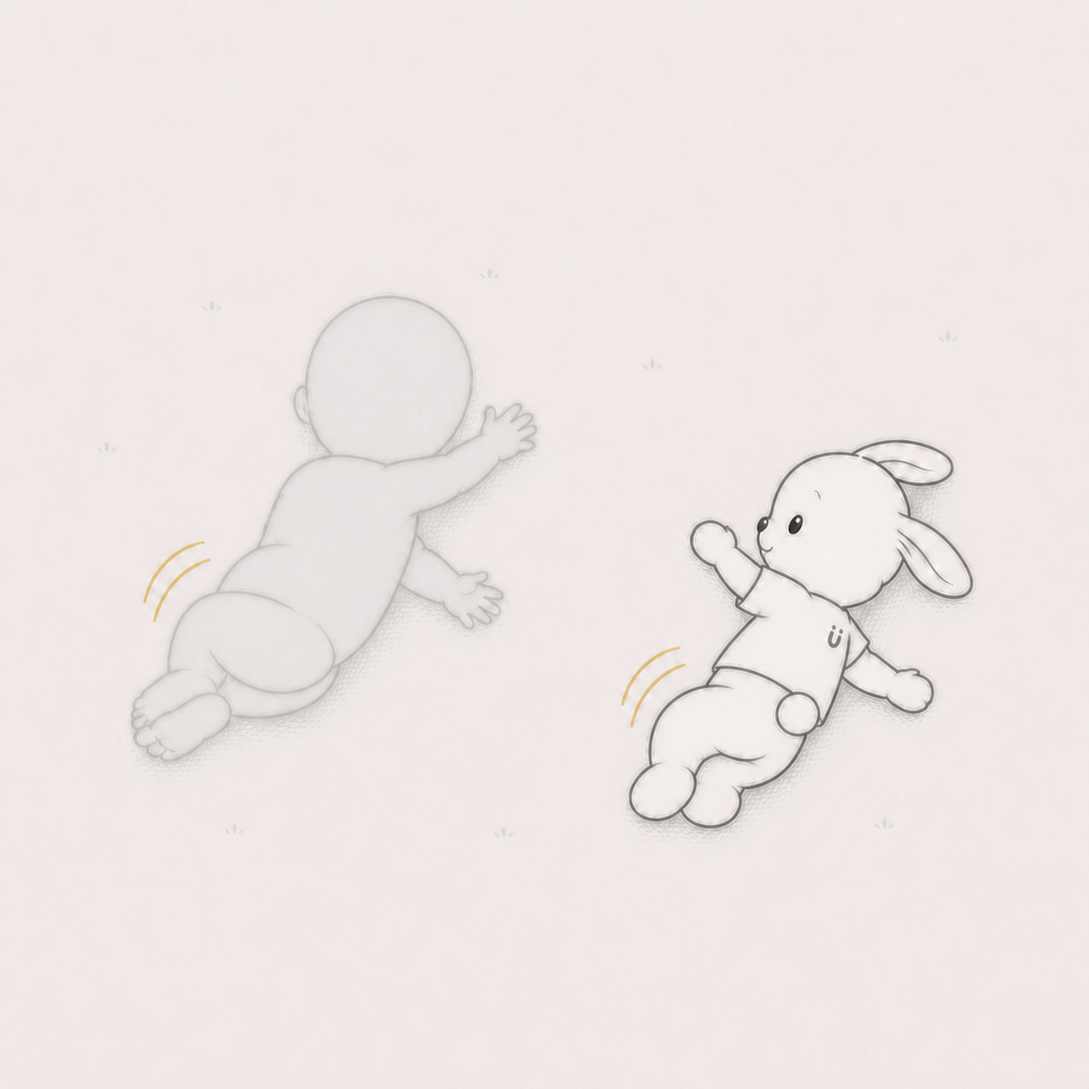
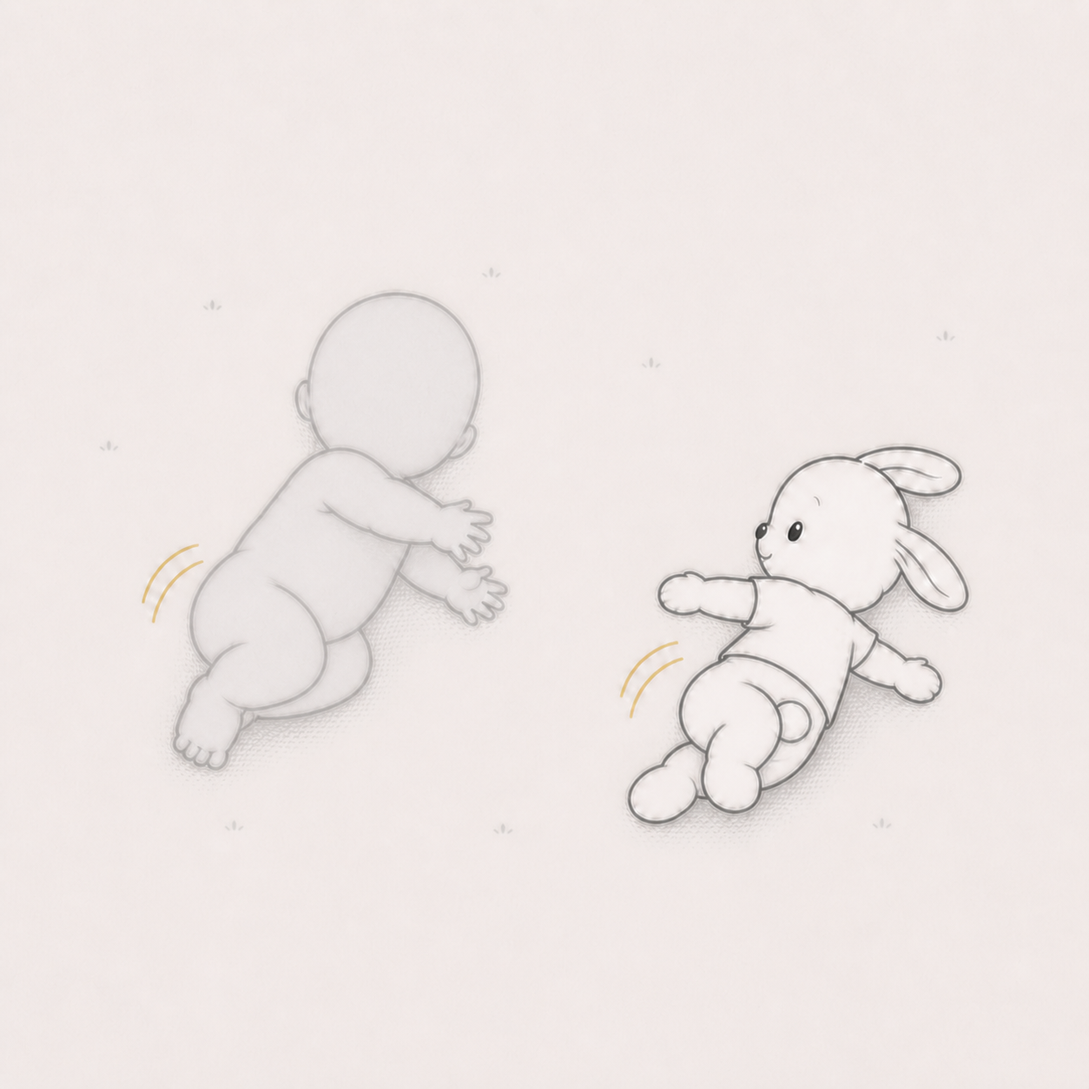
押しぐるま、三輪車などを追加

diff --git a/planning/participatory-growth-frames/index.html b/planning/participatory-growth-frames/index.html
@@ -165,6 +165,10 @@
         <article><button class="visual"><img src="../participatory-growth-frame-studies/gen-frame-relax-looking-up.png" alt="仰向けで並んでくつろぐ子どもとゲン"></button><div class="content"><span class="kind">REST</span><h3>並んで空を見る</h3><p class="scene">何かを頑張る時間ではなく、同じ場所で一緒に休む時間を残します。</p><p class="development"><strong>軽く見る発達</strong>仰向けで身体を休める／視線を上へ向ける／安心して静かに過ごす</p><p class="pose"><strong>写真の姿勢：</strong>仰向け。手足の位置は自由</p></div></article>
         <article><button class="visual"><img src="../participatory-growth-frame-studies/gen-frame-supine-feet-mirror.png" alt="仰向けで自分の足をつかむ子どもの隣で同じ形をまねるゲン"></button><div class="content"><span class="role role-milestone">MILESTONE</span><span class="kind">BODY DISCOVERY</span><h3>あし、みつけた</h3><p class="scene">子どもが仰向けで両足を手に取ると、隣のゲンも膝を胸へ寄せ、自分の足をつかんで同じ形を返します。</p><p class="development"><strong>この姿勢・動作で見えること</strong>股関節と膝を曲げる／手で自分の足をつかむ／身体の中央で手足を出会わせる</p><p class="pose"><strong>写真の姿勢：</strong>仰向けで両膝を胸へ寄せ、左右の手でそれぞれの足を持つ。大人は撮影側</p></div></article>
         <article><button class="visual"><img src="../participatory-growth-frame-studies/gen-frame-rolling-mirror.png" alt="横向きへ寝返ろうとする子どもの身体を隣でまねるゲン"></button><div class="content"><span class="role role-milestone">MILESTONE</span><span class="kind">ROLL &amp; IMITATE</span><h3>ころん、をいっしょに</h3><p class="scene">子どもが膝と腕を向こう側へ運び、身体を横へ向け始めると、ゲンも隣で同じ丸い形を返します。</p><p class="development"><strong>この姿勢・動作で見えること</strong>脚を身体の反対側へ動かす／肩と腰の向きを変える／仰向けから横向きへ移る</p><p class="pose"><strong>写真の姿勢：</strong>仰向けから横向きになる途中。片膝と片腕を身体の反対側へ。大人は撮影側</p></div></article>
+        <article><button class="visual"><img src="../participatory-growth-frame-studies/gen-frame-supported-twist.png" alt="台へ片手を残して身体を横へひねる子どもをまねるゲン"></button><div class="content"><span class="role role-milestone">MILESTONE</span><span class="kind">STAND &amp; TWIST</span><h3>つかまったまま、くるり</h3><p class="scene">子どもが片手を台へ残したまま胸と顔を横へ向けると、ゲンも隣で同じひねりを返します。</p><p class="development"><strong>この姿勢・動作で見えること</strong>片手で身体を支える／両足で立位を保つ／腰と肩を違う向きへ動かす</p><p class="pose"><strong>写真の姿勢：</strong>低い台へ片手を置き、足と腰を残したまま胸・顔・反対の腕を横へ。大人は撮影側</p></div></article>
+        <article><button class="visual"><img src="../participatory-growth-frame-studies/gen-frame-push-car.png" alt="四輪の手押し車を押して歩く子どもの前を進むゲン"></button><div class="content"><span class="role role-milestone">MILESTONE</span><span class="kind">PUSH &amp; WALK</span><h3>押す道の、少し前</h3><p class="scene">子どもが両手で車の取っ手を押して一歩進むと、ゲンは触れずに少し先から同じ道を示します。</p><p class="development"><strong>この姿勢・動作で見えること</strong>両手で支持物を押す／身体を少し前へ傾ける／足を交互に出して進む</p><p class="pose"><strong>写真の姿勢：</strong>安定した四輪手押し車の取っ手を両手で持ち、片足を前へ。大人はすぐ支えられる撮影位置</p></div></article>
+        <article><button class="visual"><img src="../participatory-growth-frame-studies/gen-frame-tricycle.png" alt="三輪車をこぐ子どもの後ろを走るゲン"></button><div class="content"><span class="role role-milestone">MILESTONE</span><span class="kind">PEDAL &amp; STEER</span><h3>こぐ足の、そのあとを</h3><p class="scene">子どもがハンドルを握り、片足でペダルを押すと、ゲンは後ろから同じ行き先へ走ります。</p><p class="development"><strong>この姿勢・動作で見えること</strong>両手で進行方向を調整する／左右の足でペダルを踏む／座った姿勢で前へ進む</p><p class="pose"><strong>写真の姿勢：</strong>三輪車へ座り、両手をハンドルへ。片膝を上げ、反対の足でペダルを押す。安全な場所で大人が撮影</p></div></article>
+        <article><button class="visual"><img src="../participatory-growth-frame-studies/gen-frame-trampoline.png" alt="トランポリンで跳ぶ子どもの形を地面でまねるゲン"></button><div class="content"><span class="role role-milestone">MILESTONE</span><span class="kind">BOUNCE</span><h3>しずんで、ぽん</h3><p class="scene">子どもがトランポリンを両足で沈ませて浮くと、ゲンも安全な外側で小さく同じ形を返します。</p><p class="development"><strong>この姿勢・動作で見えること</strong>両膝を一緒に曲げ伸ばす／両足で面を押す／上下の動きに合わせて姿勢を保つ</p><p class="pose"><strong>写真の姿勢：</strong>低いトランポリンの中央で両足をそろえ、膝を曲げ、腕を横へ。大人は手の届く位置</p></div></article>
         <article><button class="visual"><img src="../participatory-growth-frame-studies/gen-frame-relax-leaning-together.png" alt="並んで座って寄りかかる子どもとゲン"></button><div class="content"><span class="kind">REST</span><h3>寄りかかって、ひと休み</h3><p class="scene">子どもが少し後ろへ寄りかかると、ゲンも同じ角度で隣へ座ります。</p><p class="development"><strong>軽く見る発達</strong>座る／手で身体を支える／自分に合う姿勢で休む</p><p class="pose"><strong>写真の姿勢：</strong>床座り・両手を後ろへ</p></div></article>
         <article><button class="visual"><img src="../participatory-growth-frame-studies/gen-frame-relax-watching-together.png" alt="うつ伏せで同じ小さな物を見る子どもとゲン"></button><div class="content"><span class="kind">CURIOSITY</span><h3>同じ小さなものを見る</h3><p class="scene">虫や葉っぱ、おもちゃなど、子どもの興味の先へゲンも並びます。</p><p class="development"><strong>軽く見る発達</strong>興味のある物を見続ける／同じ対象へ注意を向ける／楽な姿勢を選ぶ</p><p class="pose"><strong>写真の姿勢：</strong>うつ伏せ・頬や顎を手に置く</p></div></article>
         <article><button class="visual"><img src="../participatory-growth-frame-studies/gen-frame-follow-walking.png" alt="歩く子どもの後ろからついていくゲン"></button><div class="content"><span class="kind">FOLLOW</span><h3>歩く子どもの、二歩あと</h3><p class="scene">子どもが行き先を決め、ゲンは同じ方向へ後ろからついていきます。</p><p class="development"><strong>軽く見る発達</strong>前へ歩く／左右へ体重を移す／自分のペースで移動する</p><p class="pose"><strong>写真の姿勢：</strong>歩く後ろ姿。日常の写真をそのまま使える</p></div></article>
@@ -198,6 +202,7 @@
         <article><button class="visual"><img src="../participatory-growth-frame-studies/mimo-frame-bubble-play.png" alt="シャボン玉へ手を伸ばす子どもと同じ軌道を見るミモ"></button><div class="content"><span class="role role-together">TOGETHER</span><span class="kind">BUBBLES &amp; REACH</span><h3>ふわふわ、どこまで</h3><p class="scene">子どもの息から生まれた泡へ手が伸びると、ミモも少し離れた場所から同じ泡を見上げます。泡の軌道が二人の視線をつなぎます。</p><p class="development"><strong>二人の間で起きていること</strong>息を吹く／動く物を目で追う／手を伸ばす／同じ対象を一緒に見る</p><p class="pose"><strong>写真の姿勢：</strong>座る・膝立ちで吹き棒を口元へ。反対の手を泡へ伸ばす。大人は撮影側</p></div></article>
         <article><button class="visual"><img src="../participatory-growth-frame-studies/mimo-frame-voice-pingpong.png" alt="子どもの声へ小さな声を返すミモ"></button><div class="content"><span class="kind">VOICE</span><h3>声のピンポン</h3><p class="scene">子どもの口から届いた音へ、ミモが小さく音を返します。声の大小より往復を見ます。</p><p class="development"><strong>軽く見る発達</strong>声を出す／笑う／喃語や音をまねる／交互にやりとりする</p><p class="pose"><strong>写真の姿勢：</strong>横顔または斜め顔・口が開いた瞬間</p></div></article>
         <article><button class="visual"><img src="../participatory-growth-frame-studies/mimo-frame-wave-response.png" alt="手を振る子どもへ翼を上げて返すミモ"></button><div class="content"><span class="role role-together">TOGETHER</span><span class="kind">WAVE BACK</span><h3>ばいばい、かえってきた</h3><p class="scene">子どもが片手を振ると、ミモも向かい側で翼を上げます。画面の外の大人ではなく、ミモが挨拶の相手になります。</p><p class="development"><strong>二人の間で起きていること</strong>手のひらを相手へ向ける／身振りで挨拶する／返ってきた身振りを見る</p><p class="pose"><strong>写真の姿勢：</strong>立つ、または座って片手を顔の横へ。大人は撮影側</p></div></article>
+        <article><button class="visual"><img src="../participatory-growth-frame-studies/mimo-frame-peace-sign.png" alt="子どもの隣で同じカメラへ向かい両翼をV字に上げるミモ"></button><div class="content"><span class="role role-together">TOGETHER</span><span class="kind">PEACE TOGETHER</span><h3>ふたつの指、ふたつの羽</h3><p class="scene">子どもとミモがすぐ隣へ並び、同じカメラへ向かいます。子どもの二本指に合わせ、ミモは形を変えない両翼をV字に上げます。</p><p class="development"><strong>二人の間で起きていること</strong>人差し指と中指を分ける／相手の形を自分の身体で返す／並んで同じ相手へ身体を向ける</p><p class="pose"><strong>写真の姿勢：</strong>ミモの隣で正面を向き、片手を顔の横へ。人差し指と中指でVをつくる。大人は撮影側</p></div></article>
         <article><button class="visual"><img src="../participatory-growth-frame-studies/mimo-frame-imitation-arms-up.png" alt="両腕を上げる子どもの姿を翼で返すミモ"></button><div class="content"><span class="role role-together">TOGETHER</span><span class="kind">IMITATE</span><h3>そのかたち、かえすよ</h3><p class="scene">子どもが両腕を上げると、ミモも向かい側で翼を上げます。子どもの動きから、二人の形が始まります。</p><p class="development"><strong>二人の間で起きていること</strong>相手の動きを見る／身体の形をまねる／動きを交互に返す</p><p class="pose"><strong>写真の姿勢：</strong>立つ、または座って両腕を斜め上へ伸ばす</p></div></article>
         <article><button class="visual"><img src="../participatory-growth-frame-studies/mimo-frame-freeze-notice.png" alt="動きを止めた子どもと同じ形で止まるミモ"></button><div class="content"><span class="role role-together">TOGETHER</span><span class="kind">FREEZE &amp; NOTICE</span><h3>ぴたっ、をいっしょに</h3><p class="scene">動いていた子どもが合図に気づいて止まると、ミモも翼と片足をその場で止めます。正しい形より、気づいて切り替えた瞬間を残します。</p><p class="development"><strong>二人の間で起きていること</strong>合図へ注意を向ける／動いている身体を止める／相手と簡単なルールを共有する</p><p class="pose"><strong>写真の姿勢：</strong>立って片膝を上げ、両腕を動きの途中で止める。大人は撮影側</p></div></article>
         <article><button class="visual"><img src="../participatory-growth-frame-studies/mimo-frame-hidden-find.png" alt="子どもが布を持ち上げて隠れていたミモを見つける"></button><div class="content"><span class="role role-milestone">MILESTONE</span><span class="kind">FIND</span><h3>めくった先に、いた</h3><p class="scene">子どもが布の端を持ち上げると、隠れていたミモが現れます。子どもの手で、見えなかった続きが開きます。</p><p class="development"><strong>この姿勢・動作で見えること</strong>隠れた物を探す／布の端をつかんで持ち上げる／見つけた相手へ注意を向ける</p><p class="pose"><strong>写真の姿勢：</strong>座る、または膝立ちで片手を前へ伸ばし、布の端を持つ</p></div></article>
@@ -219,6 +224,7 @@
       </div>
       <div class="grid">
         <article><button class="visual"><img src="../participatory-growth-frame-studies/luke-frame-tiny-discovery.png" alt="子どもの指先へ虫眼鏡を合わせるルーク"></button><div class="content"><span class="kind">DISCOVER</span><h3>その小さなもの、発見</h3><p class="scene">子どもがつまんだ小さな物が、ルークの虫眼鏡の中心になります。</p><p class="development"><strong>軽く見る発達</strong>親指と人差し指でつまむ／小さな物へ狙いを合わせる／手元を観察する</p><p class="pose"><strong>写真の姿勢：</strong>胸の前で小さな物をつまむ</p></div></article>
+        <article><button class="visual"><img src="../participatory-growth-frame-studies/luke-frame-clothespin.png" alt="服の裾についた五つの洗濯ばさみの一つを外そうとする子どもへ小さく拍手するルーク"></button><div class="content"><span class="role role-milestone">MILESTONE</span><span class="kind">PINCH &amp; REMOVE</span><h3>つまんで、はずす</h3><p class="scene">子どもが服の裾についた五つの洗濯ばさみに気づき、片手で布を支えながら、そのうち一つをつまんで口を開きます。ルークは手を出さず、造形どおりの滑らかな両手を胸の前で寄せて小さく拍手します。</p><p class="development"><strong>この姿勢・動作で見えること</strong>複数の中から一つへ手を運ぶ／片手で布を支える／親指と指で道具を押し開いて外す</p><p class="pose"><strong>写真の姿勢：</strong>服の裾を片手で持ち、反対の手の親指と人差し指で、裾へ間隔をあけて浅く留めた五つの洗濯ばさみの一つをつまむ。必ず大人の見守りのもとで撮影</p></div></article>
         <article><button class="visual"><img src="../participatory-growth-frame-studies/luke-frame-sand-texture.png" alt="砂を手で触って落とす子どもの隣で同じ砂へ触れるルーク"></button><div class="content"><span class="role role-together">TOGETHER</span><span class="kind">SAND &amp; TEXTURE</span><h3>さらさら、手のなか</h3><p class="scene">子どもが砂へ手を置き、もう一方の手から少しずつ落とします。ルークは道具を渡さず、同じ砂の端へ丸い手をそっと置きます。</p><p class="development"><strong>二人の間で起きていること</strong>砂へ手のひらや指を触れる／握る・開く・落とす／自分に合う触り方と長さを選ぶ</p><p class="pose"><strong>写真の姿勢：</strong>砂場で座る、または膝立ち。一方の手を砂へ置き、もう一方の手から砂を落とす。大人は撮影側</p></div></article>
         <article><button class="visual"><img src="../participatory-growth-frame-studies/luke-frame-clay-press.png" alt="両手で粘土を押して形を変える子どもを同じ高さで見るルーク"></button><div class="content"><span class="role role-together">TOGETHER</span><span class="kind">CLAY &amp; CHANGE</span><h3>むぎゅっ、形がかわった</h3><p class="scene">子どもが両手で粘土を押すと、丸かった形が低く広がります。ルークは見本を作らず、空いた場所で同じ押す形を小さく返します。</p><p class="development"><strong>二人の間で起きていること</strong>両手で押す／力加減による形の変化を見る／丸める・伸ばす・押す方法を選ぶ</p><p class="pose"><strong>写真の姿勢：</strong>座る・膝立ちで、粘土へ両手のひらを置いて押す。大人は撮影側</p></div></article>
         <article><button class="visual"><img src="../participatory-growth-frame-studies/luke-frame-water-pour.png" alt="水を注ぐ子どもと流れの先を見るルーク"></button><div class="content"><span class="role role-together">TOGETHER</span><span class="kind">WATER &amp; POUR</span><h3>ながれた先を、いっしょに</h3><p class="scene">子どもが器を傾けると、水がたらいへ流れます。ルークは器を支えず、水が着いた場所へ視線を合わせます。</p><p class="development"><strong>二人の間で起きていること</strong>両手で器を持つ／傾きを調整する／水の流れと波紋を目で追う</p><p class="pose"><strong>写真の姿勢：</strong>座る・膝立ちで、小さな器を両手で傾ける。大人は撮影側</p></div></article>
@@ -383,6 +389,8 @@
         'gen-frame-seated-reach.png',
         'gen-frame-ball-roll.png',
         'milestone-frame-pull-to-stand.png',
+        'gen-frame-supported-twist.png',
+        'gen-frame-push-car.png',
         'gen-frame-follow-walking.png',
         'gen-frame-squat-and-pick-up.png',
         'gen-frame-child-leads-rabbit.png',
@@ -400,12 +408,15 @@
         'gen-frame-throw-receive.png',
         'gen-frame-ball-exchange.png',
         'gen-frame-follow-running.png',
-        'gen-frame-two-foot-jump.png'
+        'gen-frame-two-foot-jump.png',
+        'gen-frame-trampoline.png',
+        'gen-frame-tricycle.png'
       ],
       mimo: [
         'mimo-frame-voice-pingpong.png',
         'mimo-frame-bubble-play.png',
         'mimo-frame-wave-response.png',
+        'mimo-frame-peace-sign.png',
         'mimo-frame-shared-pointing.png',
         'mimo-frame-show-and-receive.png',
         'mimo-frame-imitation-arms-up.png',
@@ -424,6 +435,7 @@
         'luke-frame-release-drop.png',
         'luke-frame-reach-for-toy.png',
         'luke-frame-tiny-discovery.png',
+        'luke-frame-clothespin.png',
         'luke-frame-button-sound.png',
         'luke-frame-put-in-look.png',
         'luke-frame-page-turn.png',
@@ -470,8 +482,8 @@
         'cheer-frame-pause-before-trying.png'
       ]),
       milestone: new Set([
-        'gen-frame-prone-dialogue.png','gen-frame-supine-feet-mirror.png','gen-frame-rolling-mirror.png','gen-frame-seated-reach.png','gen-frame-park-slide.png','gen-frame-balance-mirror.png','gen-frame-ball-exchange.png',
-        'mimo-frame-shared-pointing.png','mimo-frame-voice-pingpong.png','luke-frame-tiny-discovery.png','luke-frame-shared-line.png',
+        'gen-frame-prone-dialogue.png','gen-frame-supine-feet-mirror.png','gen-frame-rolling-mirror.png','gen-frame-seated-reach.png','gen-frame-supported-twist.png','gen-frame-push-car.png','gen-frame-tricycle.png','gen-frame-trampoline.png','gen-frame-park-slide.png','gen-frame-balance-mirror.png','gen-frame-ball-exchange.png',
+        'mimo-frame-shared-pointing.png','mimo-frame-voice-pingpong.png','luke-frame-tiny-discovery.png','luke-frame-clothespin.png','luke-frame-shared-line.png',
         'milestone-frame-pull-to-stand.png'
       ])
     };

diff --git a/planning/participatory-growth-frames/photo-filter-implementation-options.md b/planning/participatory-growth-frames/photo-filter-implementation-options.md
@@ -342,3 +342,179 @@
 
 この構成なら、低い運用費で企画の価値を検証できる。利用結果を確認した後に、前後関係、接触表現、生成AI背景の順で拡張する。
 
+## 11. TikTok／Instagramを想定した企画比較
+
+SNSで広がる可能性と、保護者が実際に試す可能性は分けて考える。
+
+| 企画 | SNSで目を引く | 試しやすさ | 安心感 | 主な役割 |
+|---|---:|---:|---:|---|
+| 子ども＋白黒絵本 | 5 | 4 | 4 | SNSで見せる主役 |
+| 子ども＋自然な絵本 | 4 | 3 | 2〜3 | 記念・有料体験 |
+| 元写真＋動物ステッカー | 3〜4 | 5 | 5 | 最初の利用入口 |
+
+### 11.1 子どもを切り抜いて白黒の絵本へ入れる
+
+単に写真をグレースケールへ変換するのではなく、次の表現を推奨する。
+
+- 子どもは実写のまま切り抜く
+- 背景と動物は手描きの線画にする
+- 子どもだけカラーで残す
+- 動物のマフラーや物語の小物だけ、withuのオレンジを使う
+- 子どもが触った場所から色が広がる演出を加える
+- 保存画像だけでなく、印刷して親子で塗れる形式も用意する
+
+#### 期待できる効果
+
+- Before／Afterの差が一瞬で伝わる
+- 自然な生成画像よりも独自の表現として認識されやすい
+- 子どもの顔や身体を生成AIで描き直さずに済む
+- 写真が物語へ変わる瞬間を短尺動画にしやすい
+- 「見る画像」だけでなく「親子で色を塗る体験」へ拡張できる
+
+#### 注意点
+
+- 切り抜き精度が悪いと輪郭の不自然さが目立つ
+- 白黒の写真にするだけでは変化が弱い
+- 線画、余白、アクセント色を含む固有のアートディレクションが必要
+
+### 11.2 子どもを切り抜いて自然な絵本へ入れる
+
+子どもの実写を維持し、草原、森、空、室内などを自然な絵本背景へ変換する。
+
+#### 期待できる効果
+
+- 完成画像の特別感が高い
+- 誕生日、入園、卒園、成長記録などの記念用途と相性がよい
+- 印刷物、記念冊子、有料保存などへ展開しやすい
+
+#### 注意点
+
+- 一般的なAI絵本やアニメ風加工と類似して見える可能性がある
+- 子どもの顔、指、姿勢を生成し直すと本人性が損なわれる
+- 写真をAIへ送ることに抵抗を感じる保護者がいる
+- 高品質な結果が出るまでの再生成で時間と費用が増える
+
+この方式は無料の入口よりも、記念日向けの特別版や有料機能に適している。子どもの領域は生成対象から除外し、背景だけを生成することを基本とする。
+
+### 11.3 元写真を維持して動物をステッカーで入れる
+
+日常写真を変更せず、ゲン、ミモ、ルークを透明ステッカーとして配置する。
+
+#### 期待できる効果
+
+- 数秒で完成し、初回利用のハードルが低い
+- 写真を変えないため保護者の安心感が高い
+- 結果の失敗が少なく、何度も試しやすい
+- Instagramのステッカー操作に近く、説明が少なくても理解されやすい
+- 日常の写真へ自然に導入できる
+
+Instagramには、カメラロールの写真や動画の一部をカスタムステッカーにするCutouts機能がある。withuでは逆に「元写真へ動物の透明ステッカーを追加する」体験とすることで、既知の操作感を利用できる。
+
+参考：<https://about.fb.com/news/2024/05/new-stickers-in-instagram-stories/>
+
+#### 注意点
+
+- 単純配置だけでは「シールを貼った」印象になりやすい
+- 接地影、自動配置、前後関係、視線方向によって一体感を高める必要がある
+- 完成結果だけでは白黒絵本ほど大きな変化を見せにくい
+
+## 12. 推奨するSNS向けの役割分担
+
+3案から一つだけを選ぶのではなく、利用目的を分ける。
+
+1. **試してもらう入口：動物ステッカー**
+   - 写真を変えず、5〜10秒で完成
+   - 登録前でも一度試せるようにする
+   - 最初の写真アップロード率を検証する
+2. **シェアしてもらう主役：白黒絵本**
+   - Before／Afterを強く見せる
+   - withu固有の線画とアクセントカラーを使う
+   - 色塗りや複数ページへつなげる
+3. **購入・保存してもらう特別版：自然な絵本**
+   - 誕生日、入園、卒園などの用途を明確にする
+   - 印刷、冊子、高解像度保存などを有料価値にする
+
+この役割分担を短く表すと、次のようになる。
+
+> 試してもらうのはステッカー。シェアしてもらうのは白黒絵本。購入してもらうのは自然な絵本。
+
+## 13. TikTok／Instagram用の見せ方
+
+完成画像だけではなく、写真が物語へ変わる過程を7〜10秒で見せる。
+
+```text
+0〜1秒：いつもの写真
+1〜2秒：子どもの輪郭が光る
+2〜4秒：背景が紙のように外れる
+4〜6秒：子どもが白黒絵本のページへ入る
+6〜8秒：ゲン、ミモ、ルークの一人が現れる
+8〜10秒：「あなたの子なら、どの物語？」
+```
+
+### 動画制作上の原則
+
+- 最初の1秒で元写真を見せる
+- 完成結果だけでなく処理途中を見せる
+- 過度に完成された広告表現より、実際に保護者が操作する様子を見せる
+- 画面録画、手元、迷った瞬間なども残す
+- 同じ写真に3キャラクターを順番に出し、選びたくなる構成にする
+- 音源がなくても変化を理解できる字幕を付ける
+
+TikTokの2026年公式トレンド資料では、過度に整えられた表現より、実際の過程、人、共同体験、参加できる設計が重視されている。参考：<https://ads.tiktok.com/business/en-US/next>
+
+## 14. 参加を促す投稿設計
+
+Instagramのテンプレートや「お題に参加」に近い形式で、他の保護者が自分の写真に置き換えられるようにする。
+
+投稿のお題例：
+
+- うちの子の一歩が、絵本になった
+- 今日、どの先生が遊びにきた？
+- この後ろ姿を物語にしてみた
+- まだできない日も、絵本の1ページ
+- あなたならゲン・ミモ・ルーク、誰を選ぶ？
+- いつもの写真から、どんな物語が始まる？
+
+参考：
+
+- Instagram ReelsのAdd Yours：<https://about.fb.com/news/2023/08/music-and-collabs-on-instagram/>
+- Instagramのお題スタンプ：<https://about.fb.com/ja/news/2021/10/addyourssticker/>
+- Instagram Reelsテンプレート：<https://about.fb.com/ja/news/2022/07/reelsjulycreativetools/>
+
+### 共有時のプライバシー選択
+
+子どもの顔をSNSへ公開したくない保護者も参加できるよう、書き出し時に選択肢を設ける。
+
+- 顔をそのまま残す
+- 後ろ姿の写真だけを推奨する
+- 顔を自動でぼかす
+- 顔の上へ物語の小物を配置する
+- 非公開保存のみで完了する
+
+「作成したら投稿しなければならない」設計にはせず、保存、家族内共有、SNS投稿を別々の選択肢にする。
+
+## 15. SNS向けの初期検証案
+
+最初は「動物ステッカー」と「子どもカラー＋白黒線画」の2案を比較する。自然な絵本生成は、保護者が写真をアップロードすることを確認してから追加する。
+
+### 検証する指標
+
+- 体験開始から写真選択までの割合
+- 写真選択から完成までの割合
+- キャラクターを変更した回数
+- 画像保存率
+- 家族内共有率
+- SNS共有率
+- 同じ保護者が別の写真でも再利用した割合
+- 顔を隠す設定の利用率
+
+### A/Bテスト
+
+| A案 | B案 |
+|---|---|
+| 元写真＋動物ステッカー | 子どもカラー＋白黒線画 |
+| 「動物が遊びにくる」 | 「写真が絵本になる」 |
+| 完成まで約5秒 | 完成まで約10〜20秒 |
+| 安心感と手軽さを訴求 | 変化と特別感を訴求 |
+
+初期段階では「バズった投稿数」だけで判断せず、写真選択率、完成率、保存率、再利用率を重視する。SNS上の再生数が高くても、保護者が自分の子どもの写真で試さなければ、プロダクトとしての価値検証にはならない。

diff --git a/planning/growth-frame-balance-and-production-plan.md b/planning/growth-frame-balance-and-production-plan.md
@@ -143,12 +143,12 @@
 
 ### 現在の網羅傾向
 
-現在の46枚は、次の領域を比較的よく扱えている。
+現在の83枚は、次の領域を比較的よく扱えている。
 
-- 姿勢と移動: あおむけでの休息と身体探索、うつ伏せ、座る、立つ、歩く、階段の上り下り、滑り台、ブランコ、片足でのバランス
+- 姿勢と移動: あおむけでの休息と身体探索、寝返り、うつ伏せ、座る、つかまり立ちでの身体のひねり、手押し歩き、歩行、三輪車、階段の上り下り、滑り台、ブランコ、トランポリン、片足でのバランス
 - 共同注意と意図共有: 指差し、同じ物を見る、好きな物を見せる
 - 初期コミュニケーション: 声を出す、笑う、喃語や音を返す、身振りで挨拶する
-- 手元の操作: つまむ、意図して離す、描く、積む、型にはめる、シールをはがして貼る、スプーンを使う、一枚ずつページをめくる
+- 手元の操作: つまむ、自分の服についた複数の洗濯ばさみから一つを選んで開いて外す、意図して離す、描く、積む、型にはめる、シールをはがして貼る、スプーンを使う、一枚ずつページをめくる
 - 模倣と探索: 相手の動きをまねる、隠れた相手を探す、原因と結果を確かめる、ごっこの意味を作る
 - 生活動作: 自分で食べる、袖へ腕を通す
 - 関係の発達: 求める、応える、差し出す、待つ、助けを提案する、協働する
@@ -198,7 +198,7 @@
 - 着衣スキル: 「おてて、でてきた」
 - 道具操作: 「つぎのページは、その手から」
 
-加えて、次点だった走る・ジャンプから「走る子どもの、そのあとを」「ぴょん、の少しあと」、あおむけの身体探索から「あし、みつけた」、寝返りから「ころん、をいっしょに」、感覚遊びから「さらさら、手のなか」を制作した。次は自己調整を優先し、感覚遊びは砂以外を増やす必要性を確認してから追加する。
+加えて、次点だった走る・ジャンプから「走る子どもの、そのあとを」「ぴょん、の少しあと」、あおむけの身体探索から「あし、みつけた」、寝返りから「ころん、をいっしょに」、感覚遊びから「さらさら、手のなか」を制作した。今回、つかまり立ちでの体幹回旋「つかまったまま、くるり」、手押し歩き「押す道の、少し前」、三輪車「こぐ足の、そのあとを」、トランポリン「しずんで、ぽん」、ピースの応答「ふたつの指、ふたつの羽」、洗濯ばさみ「つまんで、はずす」を追加した。次は自己調整を優先する。
 
 ### 次点候補
 
@@ -235,42 +235,48 @@
 8. ここまで、とどいた（座位を保って手を伸ばす）
 9. ころころ、そっちへ（座位・手でボールを送り返す）
 10. 立てた手は、まだここに（つかまり立ち）
-11. 歩く子どもの、二歩あと（歩行）
-12. こっち、いっしょに（ゲンの手を取り、自分の意図へ導く）
-13. 走る子どもの、そのあとを（走行・腕と足の交互運動）
-14. ぴょん、の少しあと（両足ジャンプ）
-15. おてて、でてきた（着衣・袖へ腕を通す）
-16. 一歩手前で、いっしょに見る（移動後に止まる・判断する）
-17. 階段の、一段あと（段差を上る）
-18. おりる足を、一段下で（手すりを使い、段差を下りる）
-19. すべる先で、待ってる（座位保持・重力に合わせた移動・着地準備）
-20. ゆれる形を、となりで（座位保持・揺れに合わせた身体調整）
-21. おなじ傾き（片足荷重・バランス・身体模倣）
-22. そっちへ、どうぞ（片足支持とボール操作）
+11. つかまったまま、くるり（片手支持・立位での体幹回旋）
+12. 押す道の、少し前（支持物を押しながら歩く）
+13. 歩く子どもの、二歩あと（歩行）
+14. こっち、いっしょに（ゲンの手を取り、自分の意図へ導く）
+15. 走る子どもの、そのあとを（走行・腕と足の交互運動）
+16. ぴょん、の少しあと（両足ジャンプ）
+17. しずんで、ぽん（弾む面で両足を曲げ伸ばす）
+18. こぐ足の、そのあとを（ペダル操作・ハンドル操作）
+19. おてて、でてきた（着衣・袖へ腕を通す）
+20. 一歩手前で、いっしょに見る（移動後に止まる・判断する）
+21. 階段の、一段あと（段差を上る）
+22. おりる足を、一段下で（手すりを使い、段差を下りる）
+23. すべる先で、待ってる（座位保持・重力に合わせた移動・着地準備）
+24. ゆれる形を、となりで（座位保持・揺れに合わせた身体調整）
+25. おなじ傾き（片足荷重・バランス・身体模倣）
+26. そっちへ、どうぞ（片足支持とボール操作）
 
 ### ミモ｜声から意図共有へ
 
 1. 声のピンポン（声の往復）
 2. ばいばい、かえってきた（ジェスチャー・サイン）
-3. みつけたものを、いっしょに（指差し・共同注意）
-4. 「みて」を受け取る（物を介した意図共有）
-5. ふわふわ、どこまで（息を吹く・動く泡を追う・共同注意）
-6. そのかたち、かえすよ（身体模倣）
-7. めくった先に、いた（隠れた物を探す）
-8. ひとくち、どうぞ（ごっこ遊び）
+3. ふたつの指、ふたつの羽（ピースサイン・身振りの応答）
+4. みつけたものを、いっしょに（指差し・共同注意）
+5. 「みて」を受け取る（物を介した意図共有）
+6. ふわふわ、どこまで（息を吹く・動く泡を追う・共同注意）
+7. そのかたち、かえすよ（身体模倣）
+8. めくった先に、いた（隠れた物を探す）
+9. ひとくち、どうぞ（ごっこ遊び）
 
 ### ルーク｜手元の操作から構成へ
 
 1. その小さなもの、発見（つまむ・観察する）
-2. さらさら、手のなか（砂へ触れる・握る・落とす・触り方を選ぶ）
-3. ながれた先を、いっしょに（器を傾ける・水の流れを追う）
-4. むぎゅっ、形がかわった（両手で押す・力で形を変える）
-5. はなしたら、どこへいく？（意図して離す・落下を追う）
-6. どの向きなら、入るかな（形と穴を合わせる・向きを変えて試す）
-7. ぺりっ、ここにしよう（薄い端をつまむ・位置を選んで貼る）
-8. 線のつづきは、こっち（道具を持ち、痕跡を残す）
-9. つぎのページは、その手から（一枚ずつページをめくる）
-10. くずれても、ここから（構成する・崩れた後に再試行する）
+2. つまんで、はずす（自分の服についた五つの洗濯ばさみから一つを選んで開いて外す）
+3. さらさら、手のなか（砂へ触れる・握る・落とす・触り方を選ぶ）
+4. ながれた先を、いっしょに（器を傾ける・水の流れを追う）
+5. むぎゅっ、形がかわった（両手で押す・力で形を変える）
+6. はなしたら、どこへいく？（意図して離す・落下を追う）
+7. どの向きなら、入るかな（形と穴を合わせる・向きを変えて試す）
+8. ぺりっ、ここにしよう（薄い端をつまむ・位置を選んで貼る）
+9. 線のつづきは、こっち（道具を持ち、痕跡を残す）
+10. つぎのページは、その手から（一枚ずつページをめくる）
+11. くずれても、ここから（構成する・崩れた後に再試行する）
 
 ### 関係の中で育つ｜安心から協働へ
 
